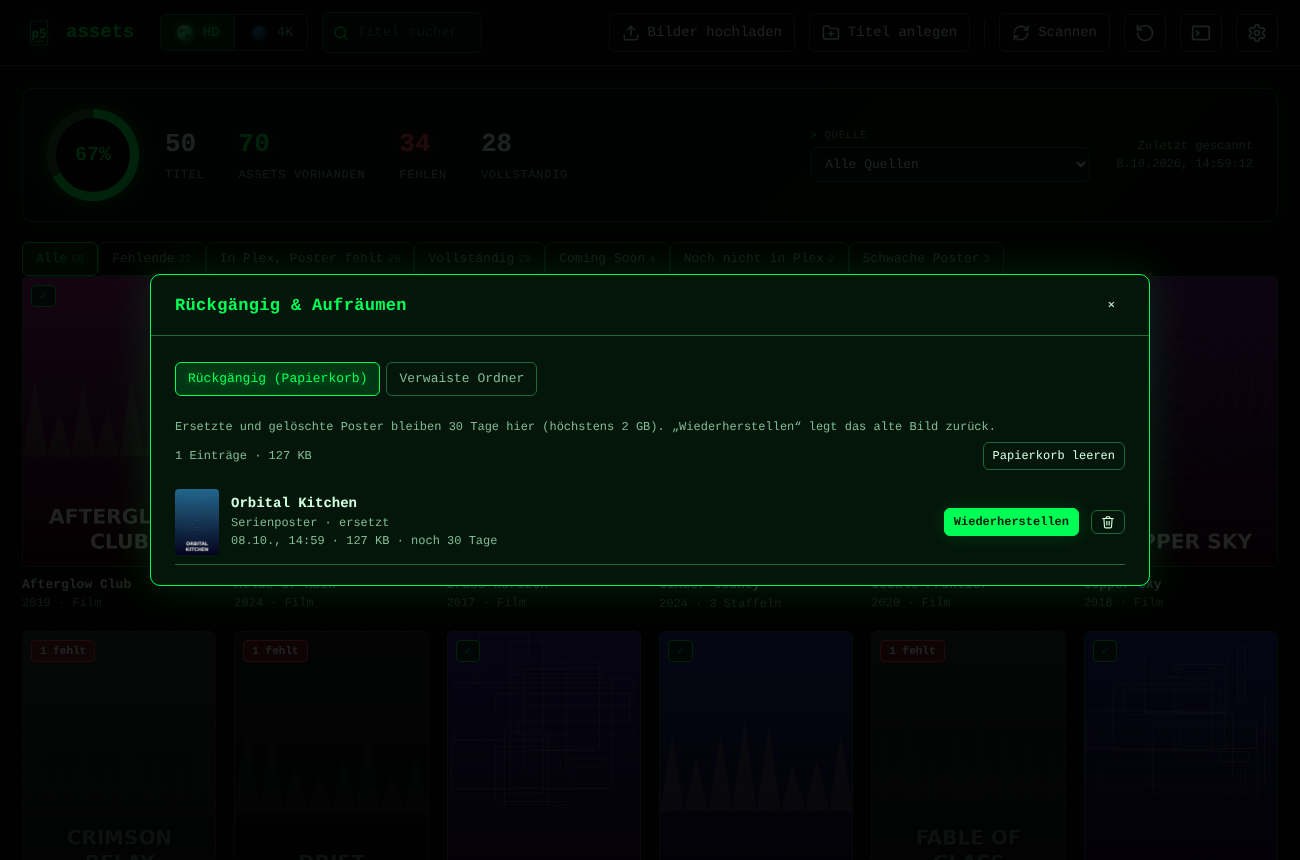
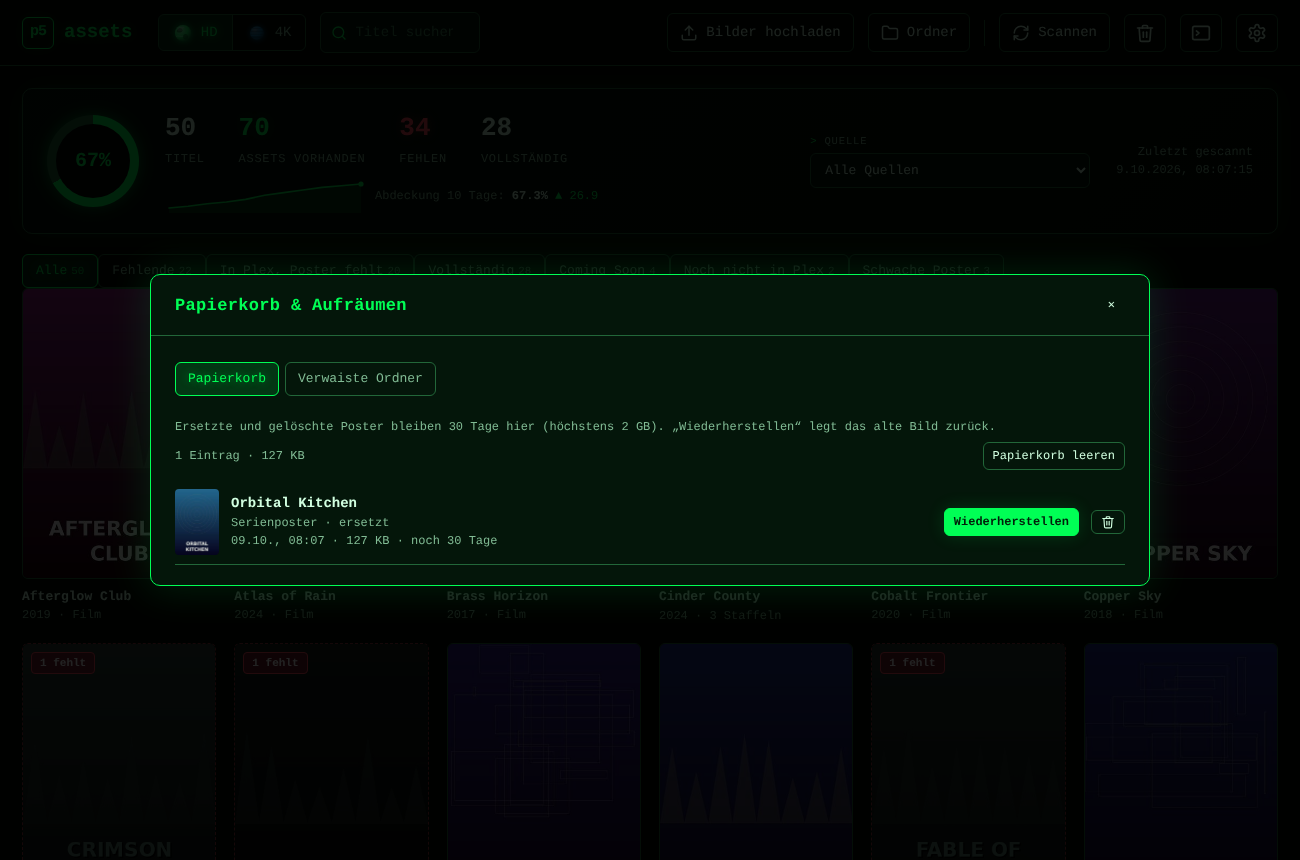
README und alle Bilder/GIFs auf den neuen Stand (Papierkorb-Symbol, Marken, kein Häkchen, ohne Titel anlegen)
Claude-Session: https://claude.ai/code/session_01JoFLcQEW7QhHAh66qJqz46

diff --git a/README.md b/README.md
@@ -29,12 +29,12 @@ Ein schlanker Docker-Container im Matrix-Look. Er vergleicht deine Bibliotheken 
 
 ### Lücken finden
 Plex, Sonarr und Radarr werden zusammengeführt (über TMDb/TVDB/IMDb-IDs). Reiter zeigen sofort, was zu tun ist:
-**Fehlende**, **In Plex, Poster fehlt**, **Vollständig**, **Coming Soon**, **Noch nicht in Plex** und **Schwache Poster**.
+**Fehlende**, **In Plex, Poster fehlt**, **Vollständig**, **Coming Soon**, **Noch nicht in Plex** (Sonarr/Radarr kennen den Titel, Plex noch nicht) und **Schwache Poster**.
 Dazu eine Quellenauswahl, schnelle Suche, A–Z-Leiste und eine Abdeckungsanzeige mit kleinem Verlauf pro Scan.
 Große Bibliotheken sind kein Problem: mit über 6000 Titeln antworten die Listen in rund 30 ms.
 
 ### Ersetzen per Drag & Drop
-Ein Bild auf eine Kachel, mehrere Dateien, ganze Ordner oder ZIPs irgendwo ins Fenster ziehen. p5assets erkennt Titel,
+Ein Bild auf eine Kachel, mehrere Dateien, ganze Ordner oder ZIPs irgendwo ins Fenster ziehen – oder über „Bilder hochladen“ bzw. „Ordner“ auswählen (auf dem iPhone/iPad genügt „Bilder hochladen“, Ordner gehen dort als ZIP). p5assets erkennt Titel,
 Jahr und Staffel aus Datei- und Ordnernamen, zeigt die Zuordnung zur Kontrolle und benennt alles Kometa-konform
 (`<Medienordner>/poster.jpg`, `Season01.jpg` …). Neue Ordner landen dort, wo die anderen Titel schon liegen.
 
@@ -56,7 +56,6 @@ Jahr und Staffel aus Datei- und Ordnernamen, zeigt die Zuordnung zur Kontrolle u
 - Kacheln für Poster und **Season00 – Season50**, auch für Staffeln, die es noch nicht gibt
 - Poster per Drag & Drop auf eine andere Kachel **kopieren**, oder mit **„Auf alle …“** auf mehrere Kacheln übertragen
 - **Herunterladen** in Originalqualität: einzelne Poster oder eine Auswahl als ZIP
-- **Eigene Ordner** für Titel, die weder in Plex noch in Sonarr/Radarr stehen
 
 ### Online-Suche
 Poster von TMDb, TVDB und fanart.tv, gruppiert nach deiner **Sprach-Priorität pro Welt** (z. B. Textless → Deutsch → English),
@@ -90,10 +89,10 @@ die Bildgrößen werden im Hintergrund gelesen.
 
 <img src="docs/images/weak.png" alt="Schwache Poster" width="560">
 
-### Rückgängig & Aufräumen
+### Papierkorb & Aufräumen
 Ersetzte oder gelöschte Poster liegen **30 Tage im Papierkorb** (höchstens 2 GB). Nach jeder Aktion bietet ein Hinweis
-„Rückgängig“ an; das Symbol ↺ in der Kopfzeile öffnet die ganze Liste. **Verwaiste Ordner** (Poster ohne Titel in Plex,
-Sonarr/Radarr oder den eigenen Ordnern) lassen sich finden und in den Papierkorb verschieben; Titel, die Sonarr/Radarr
+„Rückgängig“ an; das Papierkorb-Symbol in der Kopfzeile öffnet die ganze Liste. **Verwaiste Ordner** (Poster ohne Titel in Plex,
+Sonarr/Radarr) lassen sich finden und in den Papierkorb verschieben; Titel, die Sonarr/Radarr
 noch kennen, bleiben geschützt.
 
 <table>
